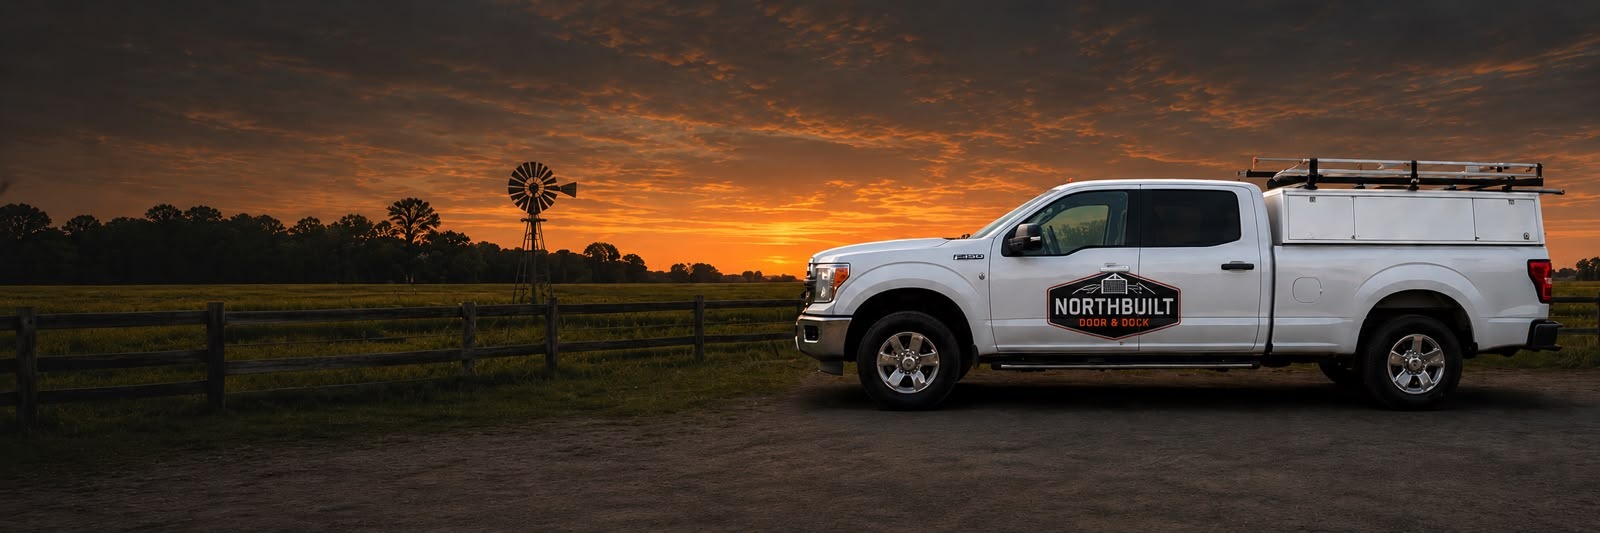
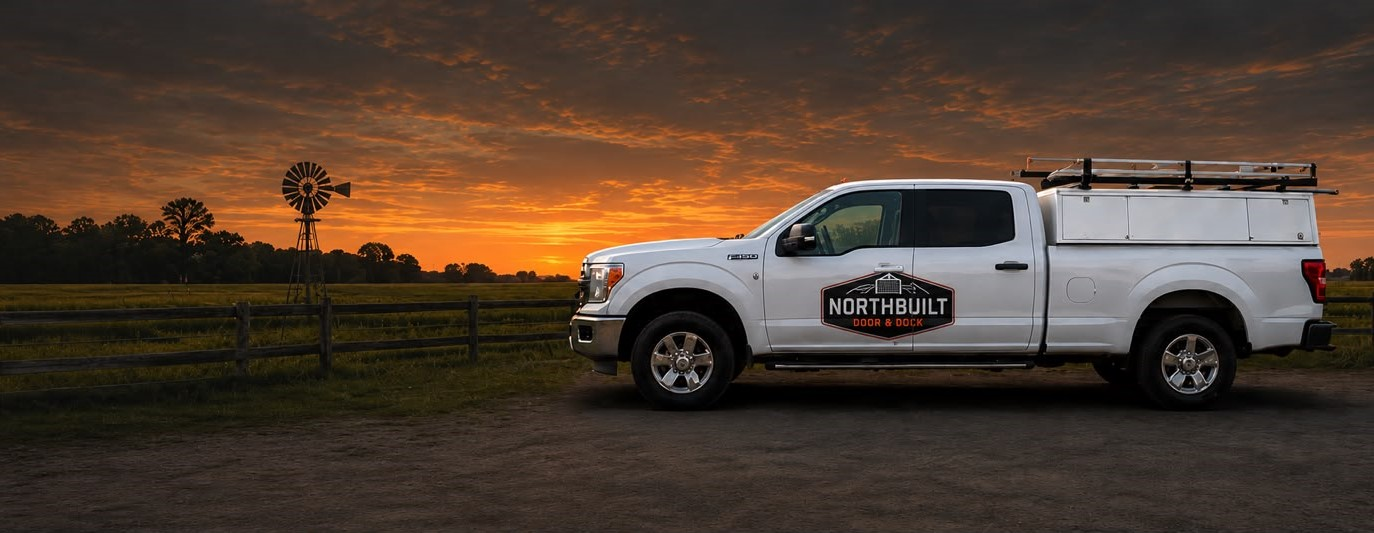
Fix services page Why Northbuilt section to match site-wide truck/mountain layout

diff --git a/src/app/services/page.tsx b/src/app/services/page.tsx
@@ -248,68 +248,61 @@ export default function ServicesPage() {
       </section>
 
       {/* ── WHY NORTHBUILT ── */}
-      <section style={{ backgroundColor: "#0B0B0B", padding: "5rem 1.5rem" }}>
-        <div className="nb-grid-2" style={{ maxWidth: "1280px", margin: "0 auto", display: "grid", gridTemplateColumns: "1fr 1fr", gap: "5rem", alignItems: "center" }}>
-          <div style={{ position: "relative", height: "400px", borderRadius: "6px", overflow: "hidden" }}>
-            <Image
-              src="https://images.unsplash.com/photo-1504307651254-35680f356dfd?w=900&q=85"
-              alt="Service Technician"
-              fill
-              style={{ objectFit: "cover" }}
-
-            />
-            {/* call out badge */}
-            <div
-              style={{
-                position: "absolute",
-                bottom: "1.5rem",
-                left: "1.5rem",
-                backgroundColor: "#F26522",
-                borderRadius: "4px",
-                padding: "0.75rem 1.25rem",
-              }}
-            >
-              <div style={{ fontFamily: "'Bebas Neue', sans-serif", fontSize: "1.4rem", color: "#fff", letterSpacing: "0.04em", lineHeight: 1 }}>
-                1 Business Day
-              </div>
-              <div style={{ fontFamily: "'Inter', sans-serif", fontSize: "0.72rem", color: "rgba(255,255,255,0.85)", fontWeight: 600, letterSpacing: "0.08em", textTransform: "uppercase", marginTop: "0.2rem" }}>
-                Response Time
-              </div>
-            </div>
-          </div>
-          <div>
-            <div style={{ display: "inline-block", width: "40px", height: "3px", backgroundColor: "#F26522", marginBottom: "1rem" }} />
-            <h2 style={{ fontFamily: "'Bebas Neue', sans-serif", fontSize: "clamp(2rem, 4vw, 3rem)", color: "#FFFFFF", letterSpacing: "0.04em", lineHeight: 1.05, marginBottom: "1.5rem" }}>
+      <section style={{ backgroundColor: "#0B0B0B", padding: "5rem 1.5rem", position: "relative", overflow: "hidden" }}>
+        {/* Mountain backdrop (full scene) */}
+        <div
+          style={{
+            position: "absolute",
+            inset: 0,
+            backgroundImage: "url('/moun.png')",
+            backgroundRepeat: "no-repeat",
+            backgroundPosition: "center bottom",
+            backgroundSize: "cover",
+            opacity: 0.9,
+            zIndex: 0,
+            pointerEvents: "none",
+          }}
+        />
+        {/* Fleet truck image, right side */}
+        <img
+          src="/new/foot.jpeg"
+          alt="Northbuilt Truck"
+          style={{
+            position: "absolute",
+            right: 0,
+            top: 0,
+            height: "100%",
+            width: "min(70%, 1100px)",
+            objectFit: "cover",
+            zIndex: 0,
+            pointerEvents: "none",
+            WebkitMaskImage: "linear-gradient(90deg, transparent 0%, #000 22%, #000 100%)",
+            maskImage: "linear-gradient(90deg, transparent 0%, #000 22%, #000 100%)",
+          }}
+        />
+        {/* Left black shade for text legibility */}
+        <div
+          style={{
+            position: "absolute",
+            inset: 0,
+            background: "linear-gradient(90deg, #0B0B0B 0%, rgba(11,11,11,0.8) 20%, rgba(11,11,11,0.25) 40%, rgba(11,11,11,0) 52%)",
+            zIndex: 1,
+            pointerEvents: "none",
+          }}
+        />
+        <div style={{ position: "relative", zIndex: 2, maxWidth: "1280px", margin: "0 auto", minHeight: "340px", display: "flex", alignItems: "center" }}>
+          <div style={{ maxWidth: "520px" }}>
+            <h2 style={{ fontFamily: "'Bebas Neue', sans-serif", fontSize: "clamp(2rem, 4vw, 3rem)", color: "#FFFFFF", letterSpacing: "0.04em", marginBottom: "0.25rem", lineHeight: 1.05 }}>
               Why Homeowners &amp;<br />Businesses Choose <span style={{ color: "#F26522" }}>Northbuilt</span>
             </h2>
-            <div style={{ display: "flex", flexDirection: "column", gap: "0.8rem", marginBottom: "2rem" }}>
+            <div style={{ display: "flex", flexDirection: "column", gap: "0.75rem", marginTop: "1.5rem" }}>
               {WHY.map((item) => (
                 <div key={item} style={{ display: "flex", alignItems: "center", gap: "0.75rem" }}>
                   <CheckCircleIcon size={18} color="#F26522" />
-                  <span style={{ color: "#D7D7D7", fontFamily: "'Inter', sans-serif", fontSize: "0.9rem" }}>{item}</span>
+                  <span style={{ color: "#D7D7D7", fontFamily: "'Inter', sans-serif", fontSize: "0.88rem" }}>{item}</span>
                 </div>
               ))}
             </div>
-            <a
-              href={`tel:${SITE.phoneFull}`}
-              style={{
-                display: "inline-flex",
-                alignItems: "center",
-                gap: "0.6rem",
-                backgroundColor: "#F26522",
-                color: "#fff",
-                padding: "0.85rem 1.75rem",
-                borderRadius: "4px",
-                textDecoration: "none",
-                fontFamily: "'Inter', sans-serif",
-                fontWeight: 700,
-                fontSize: "0.9rem",
-                letterSpacing: "0.04em",
-              }}
-            >
-              <PhoneIcon size={18} color="#fff" />
-              Call Now: {SITE.phone}
-            </a>
           </div>
         </div>
       </section>

diff --git a/src/app/agricultural/page.tsx b/src/app/agricultural/page.tsx
@@ -199,7 +199,7 @@ export default function AgriculturalPage() {
       <section style={{ backgroundColor: "#0B0B0B", padding: "5rem 1.5rem", position: "relative", overflow: "hidden" }}>
         {/* Agriculture truck image, right side */}
         <img
-          src="/newcar.png"
+          src="/new/foot2.jpeg"
           alt="Northbuilt Agricultural Truck"
           style={{
             position: "absolute",